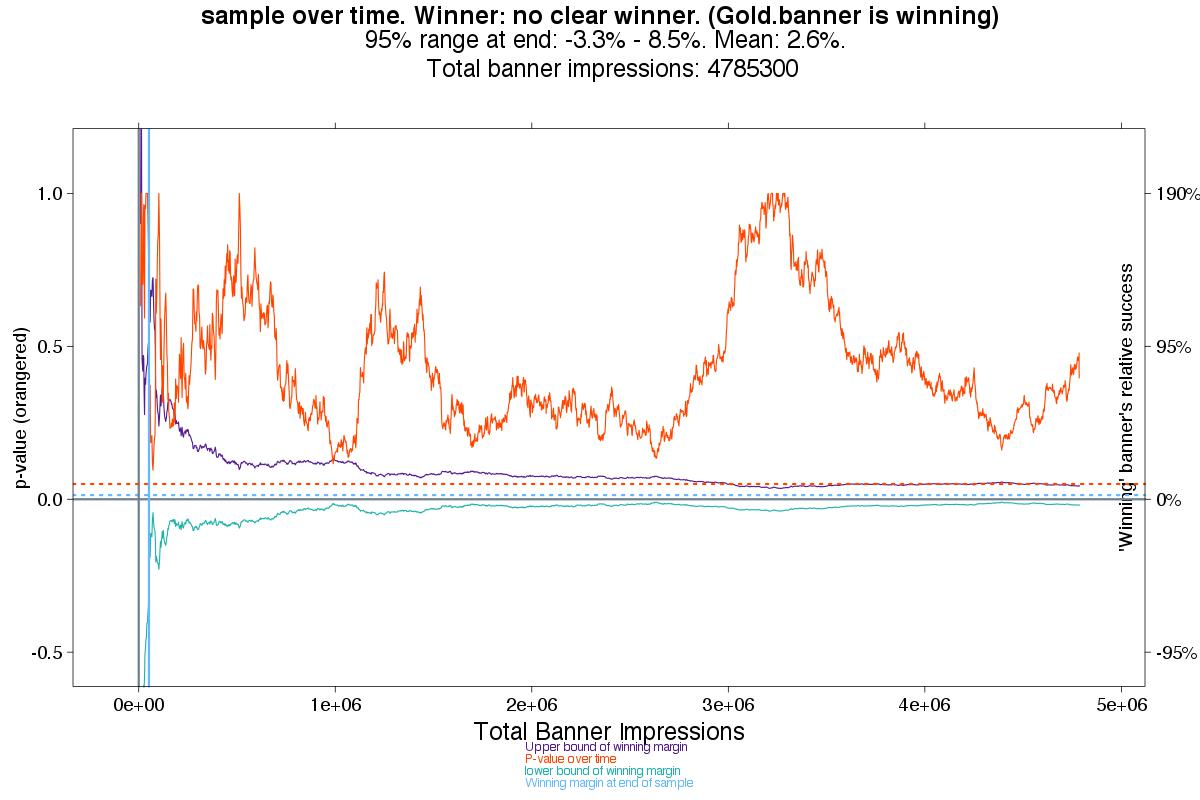
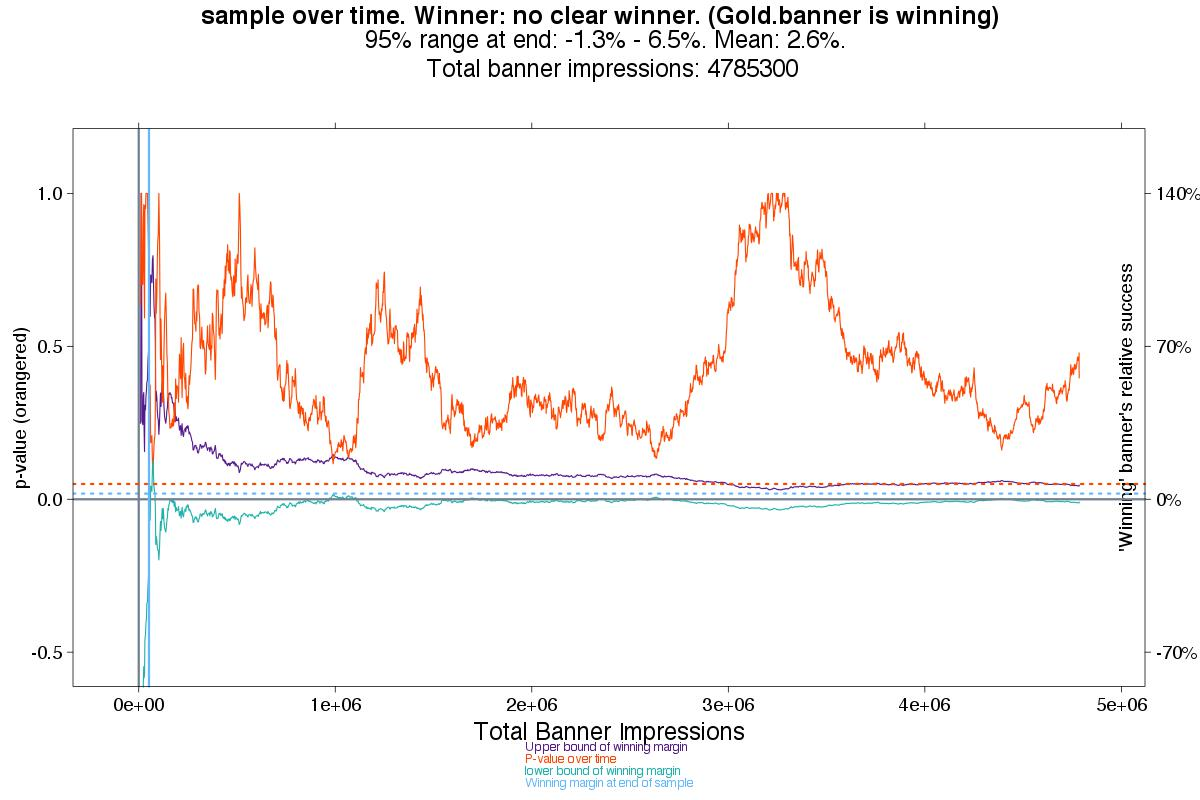
Intelligent tab buttons. Data is better

diff --git a/static/report/sample/show.html b/static/report/sample/show.html
@@ -14,7 +14,7 @@
 
 
 <div class='diagnostic-table'><!-- html table generated in R 3.0.1 by xtable 1.7-1 package -->
-<!-- Sat Jan 18 00:02:07 2014 -->
+<!-- Tue Jan 21 21:58:40 2014 -->
 <TABLE class='table table-hover table-bordered'>
 <TR> <TH> name </TH> <TH> donations </TH> <TH> clicks </TH> <TH> impressions </TH> <TH> donations/1000 impressions </TH> <TH> $/1000 impressions </TH> <TH> amount </TH> <TH> amount20/1000bi </TH> <TH> avgDonation </TH> <TH> avg20 </TH> <TH> median </TH> <TH> max </TH> <TH> conversionrate </TH> <TH> mode </TH> <TH> mode_s </TH>  </TR>
   <TR> <TD> Gold.banner </TD> <TD> 2,272 </TD> <TD> 4,133 </TD> <TD> 2,384,200 </TD> <TD> 0.952940189581411 </TD> <TD> $13.2 </TD> <TD> $31,478.58 </TD> <TD> $9.09 </TD> <TD> $13.86 </TD> <TD> $9.54 </TD> <TD> $6 </TD> <TD> $473.35 </TD> <TD> 0.55% </TD> <TD> $3 </TD> <TD> $3 </TD> </TR>
@@ -22,20 +22,20 @@
   <TR> <TD> Absolute change: </TD> <TD>    42 </TD> <TD>   116 </TD> <TD>   -16,900 </TD> <TD> 0.0241991958701953 </TD> <TD> $0.6 </TD> <TD> $ 1,230.57 </TD> <TD> $0.8 </TD> <TD> $0.29 </TD> <TD> $0.61 </TD> <TD> $1 </TD> <TD> $-526.65 </TD> <TD> -0.005% </TD> <TD> $0 </TD> <TD> $0 </TD> </TR>
    </TABLE>
 </div><br /><div class='diagnostic-table'><!-- html table generated in R 3.0.1 by xtable 1.7-1 package -->
-<!-- Sat Jan 18 00:02:07 2014 -->
+<!-- Tue Jan 21 21:58:40 2014 -->
 <TABLE class='table table-hover table-bordered'>
-<TR> <TH> winner </TH> <TH> $/impression </TH> <TH> donations/impression </TH> <TH> Dollar increase / 1000bi </TH> <TH> Donation increase / 1000bi </TH> <TH> a20diff </TH> <TH> p </TH> <TH> power </TH> <TH> lower bound of confidence (donation) </TH> <TH> upper bound of confidence (donations) </TH> <TH> wilcoxp </TH>  </TR>
-  <TR> <TD> Gold.banner </TD> <TD> 4.76% </TD> <TD> 2.61% </TD> <TD> $0.6 </TD> <TD align="right"> 0.02 </TD> <TD> $0.8 </TD> <TD> 0.4 </TD> <TD align="right"> 0.23 </TD> <TD> -3.31% </TD> <TD> 8.52% </TD> <TD align="right"> 0.00 </TD> </TR>
+<TR> <TH> winner </TH> <TH> donations/impression </TH> <TH> Donation increase / 1000bi </TH> <TH> $/impression </TH> <TH> Dollar increase / 1000bi </TH> <TH> % impressions </TH> <TH> a20diff </TH> <TH> p </TH> <TH> power </TH> <TH> lower 95% confidence (donation) </TH> <TH> upper 95% confidence (donations) </TH> <TH> lower 95% confidence ($) </TH> <TH> upper 95% confidence ($) </TH>  </TR>
+  <TR> <TD> Gold.banner </TD> <TD> 2.61% </TD> <TD align="right"> 0.02 </TD> <TD> 4.76% </TD> <TD> $0.6 </TD> <TD> -0.7% </TD> <TD> $0.8 </TD> <TD align="right"> 0.40 </TD> <TD align="right"> 0.23 </TD> <TD> -3.31% </TD> <TD> 8.52% </TD> <TD> -9.07% </TD> <TD> 18.7% </TD> </TR>
    </TABLE>
 </div><br /><div class='diagnostic-table'><!-- html table generated in R 3.0.1 by xtable 1.7-1 package -->
-<!-- Sat Jan 18 00:02:07 2014 -->
+<!-- Tue Jan 21 21:58:40 2014 -->
 <TABLE class='table table-hover table-bordered'>
 <TR> <TH> name </TH> <TH> amount3/1000bi </TH> <TH> avg3 </TH> <TH> amount5/1000bi </TH> <TH> avg5 </TH> <TH> amount10/1000bi </TH> <TH> avg10 </TH> <TH> amount50/1000bi </TH> <TH> avg50 </TH>  </TR>
   <TR> <TD> Gold.banner </TD> <TD> $2.84 </TD> <TD> $2.98 </TD> <TD> $4.28 </TD> <TD> $4.49 </TD> <TD> $6.57 </TD> <TD> $6.89 </TD> <TD> $11.71 </TD> <TD> $12.28 </TD> </TR>
   <TR> <TD> Blue.banner </TD> <TD> $2.76 </TD> <TD> $2.97 </TD> <TD> $4.08 </TD> <TD> $4.39 </TD> <TD> $6.1 </TD> <TD> $6.57 </TD> <TD> $10.56 </TD> <TD> $11.37 </TD> </TR>
    </TABLE>
 </div><br /><div class='diagnostic-table'><!-- html table generated in R 3.0.1 by xtable 1.7-1 package -->
-<!-- Sat Jan 18 00:02:07 2014 -->
+<!-- Tue Jan 21 21:58:40 2014 -->
 <TABLE class='table table-hover table-bordered'>
 <TR> <TH> name </TH> <TH> donations </TH> <TH> clicks </TH> <TH> conversion </TH> <TH> avg </TH> <TH> amount </TH>  </TR>
   <TR> <TD>   obt      </TD> <TD>          0 </TD> <TD>          1 </TD> <TD>     0%     </TD> <TD>     $NaN   </TD> <TD>  $0        </TD> </TR>
@@ -46,14 +46,7 @@
   <TR> <TD>   cc       </TD> <TD>      1,217 </TD> <TD>      2,868 </TD> <TD>     42.43% </TD> <TD>     $19.98 </TD> <TD> $24,321.21 </TD> </TR>
   <TR> <TD>   paypal   </TD> <TD>      2,644 </TD> <TD>      3,946 </TD> <TD>     67%    </TD> <TD>     $11.07 </TD> <TD> $29,273.93 </TD> </TR>
    </TABLE>
-</div><br /><!-- html table generated in R 3.0.1 by xtable 1.7-1 package -->
-<!-- Sat Jan 18 00:02:11 2014 -->
-<TABLE class='table table-hover table-bordered'>
-  <TR> <TD> Percentage difference between impressions </TD> <TD> 0.71 </TD> </TR>
-  <TR> <TD> Expected difference if they were served randomly and evenly </TD> <TD> 0.18 </TD> </TR>
-  <TR> <TD> The biggest country made up this % of total impressions </TD> <TD> 57.46348 </TD> </TR>
-   </TABLE>
-<img src='./pamplona.jpeg' style="
+</div><img src='./pamplona.jpeg' style="
     margin-right: auto;
     margin-left: auto;
     width: 90%;

diff --git a/templates/result.html b/templates/result.html
@@ -79,8 +79,9 @@
         {% endfor %}
       {% endif %}
     </div>
-    
+    <div id="diag-container">
     <div id="base" class="hidden-tab">
+    
       <img class='pamplona'  {% if force_local_graph %}
         src="{{ local_url_for('static', filename='report/{}/{}'.format(testname, graphname)) }}" 
       {% else %}
@@ -143,8 +144,10 @@
           {% endif %}
         {% endfor %}
       </div>
+    </div>
+         
 
-         {% if diagnostic_graphs|length > 1 %}
+        {% if diagnostic_graphs|length > 1 %}
           {% for tabtype in diagnostic_graphs.keys() %}
             {% if tabtype != "" %}
               <div id="{{ tabtype }}" class="hidden-tab" style="display:none">
@@ -159,14 +162,28 @@
             {% endif %}
           {% endfor %}
         {% endif %}
+
+      </div>
+
           
-        
+        <div id="bottom-tabbuttons"class="text-center">
+        {% if diagnostic_graphs|length > 1 %}
+          {% for tabtype in diagnostic_graphs.keys() %}
+            {% if tabtype != "" %}
+              <a id="{{ tabtype }}_clic2" class="btn btn-info tabclick">{{ tabtype }} Info</a>
+            {% else %}
+              <a id="base_clic2" class="btn btn-info tabclick">Base Info</a>
+            {% endif %}
+          {% endfor %}
+        {% endif %}
 <!-- diagnostic_num
         {% for d in diagnostic_plots %}
         <img src="{{ url_for('static', filename='report/{}/{}'.format(testname, d) ) }}">
         {% endfor %}
 -->
-      </div>
+      
+    </div>
+      
   </div>
   <div class="comments clearfix" class="row-fluid" style_="display:none">
     <div class="span10 offset1">
@@ -226,8 +243,27 @@ $('.screenshot').click(click_to_zoom)
 </script>
 
 <script type="text/javascript">
+  toggle_tabs = function(x){ 
+      name = x.target.getAttribute('id'); 
+      name = name.substr(0,name.length - 6); 
+      $("#"+name).slideToggle('slow', check_set_bottomtabs);    
+  }
+
+  check_set_bottomtabs = function(){
+    allhidden = true
+    children = $('#diag-container').children()
+    for(i=0; i<children.length; i++){
+      c = $(children[i])
+      if(c.is(":visible")){
+        allhidden = false
+        break;
+      } 
+    } 
+    allhidden ? $('#bottom-tabbuttons').hide() : $('#bottom-tabbuttons').show()
+  }
+
   //When you click a tab, show that info in the diagnostics
-  $('.tabclick').click(function(x){  name = this.getAttribute('id'); name = name.substr(0,name.length - 6); $("#"+name).slideToggle('slow')  })
+  $('.tabclick').click(toggle_tabs)
 </script>
 
 {% endblock %}

diff --git a/static/report/sample/reportB.html b/static/report/sample/reportB.html
@@ -1,6 +1,6 @@
 <!-- html table generated in R 3.0.1 by xtable 1.7-1 package -->
-<!-- Sat Jan 18 00:02:07 2014 -->
+<!-- Tue Jan 21 21:58:40 2014 -->
 <TABLE class='table table-hover table-bordered'>
-<TR> <TH> winner </TH> <TH> $/impression </TH> <TH> donations/impression </TH> <TH> Dollar increase / 1000bi </TH> <TH> Donation increase / 1000bi </TH> <TH> a20diff </TH> <TH> p </TH> <TH> power </TH> <TH> lower bound of confidence (donation) </TH> <TH> upper bound of confidence (donations) </TH> <TH> wilcoxp </TH>  </TR>
-  <TR> <TD> Gold.banner </TD> <TD> 4.76% </TD> <TD> 2.61% </TD> <TD> $0.6 </TD> <TD align="right"> 0.02 </TD> <TD> $0.8 </TD> <TD> 0.4 </TD> <TD align="right"> 0.23 </TD> <TD> -3.31% </TD> <TD> 8.52% </TD> <TD align="right"> 0.00 </TD> </TR>
+<TR> <TH> winner </TH> <TH> donations/impression </TH> <TH> Donation increase / 1000bi </TH> <TH> $/impression </TH> <TH> Dollar increase / 1000bi </TH> <TH> % impressions </TH> <TH> a20diff </TH> <TH> p </TH> <TH> power </TH> <TH> lower 95% confidence (donation) </TH> <TH> upper 95% confidence (donations) </TH> <TH> lower 95% confidence ($) </TH> <TH> upper 95% confidence ($) </TH>  </TR>
+  <TR> <TD> Gold.banner </TD> <TD> 2.61% </TD> <TD align="right"> 0.02 </TD> <TD> 4.76% </TD> <TD> $0.6 </TD> <TD> -0.7% </TD> <TD> $0.8 </TD> <TD align="right"> 0.40 </TD> <TD align="right"> 0.23 </TD> <TD> -3.31% </TD> <TD> 8.52% </TD> <TD> -9.07% </TD> <TD> 18.7% </TD> </TR>
    </TABLE>

diff --git a/static/report/sample/reportA.html b/static/report/sample/reportA.html
@@ -1,5 +1,5 @@
 <!-- html table generated in R 3.0.1 by xtable 1.7-1 package -->
-<!-- Sat Jan 18 00:02:07 2014 -->
+<!-- Tue Jan 21 21:58:40 2014 -->
 <TABLE class='table table-hover table-bordered'>
 <TR> <TH> name </TH> <TH> donations </TH> <TH> clicks </TH> <TH> impressions </TH> <TH> donations/1000 impressions </TH> <TH> $/1000 impressions </TH> <TH> amount </TH> <TH> amount20/1000bi </TH> <TH> avgDonation </TH> <TH> avg20 </TH> <TH> median </TH> <TH> max </TH> <TH> conversionrate </TH> <TH> mode </TH> <TH> mode_s </TH>  </TR>
   <TR> <TD> Gold.banner </TD> <TD> 2,272 </TD> <TD> 4,133 </TD> <TD> 2,384,200 </TD> <TD> 0.952940189581411 </TD> <TD> $13.2 </TD> <TD> $31,478.58 </TD> <TD> $9.09 </TD> <TD> $13.86 </TD> <TD> $9.54 </TD> <TD> $6 </TD> <TD> $473.35 </TD> <TD> 0.55% </TD> <TD> $3 </TD> <TD> $3 </TD> </TR>

diff --git a/static/report/sample/reportD.html b/static/report/sample/reportD.html
@@ -1,5 +1,5 @@
 <!-- html table generated in R 3.0.1 by xtable 1.7-1 package -->
-<!-- Sat Jan 18 00:02:07 2014 -->
+<!-- Tue Jan 21 21:58:40 2014 -->
 <TABLE class='table table-hover table-bordered'>
 <TR> <TH> name </TH> <TH> amount3/1000bi </TH> <TH> avg3 </TH> <TH> amount5/1000bi </TH> <TH> avg5 </TH> <TH> amount10/1000bi </TH> <TH> avg10 </TH> <TH> amount50/1000bi </TH> <TH> avg50 </TH>  </TR>
   <TR> <TD> Gold.banner </TD> <TD> $2.84 </TD> <TD> $2.98 </TD> <TD> $4.28 </TD> <TD> $4.49 </TD> <TD> $6.57 </TD> <TD> $6.89 </TD> <TD> $11.71 </TD> <TD> $12.28 </TD> </TR>

diff --git a/static/report/sample/reportE.html b/static/report/sample/reportE.html
@@ -1,5 +1,5 @@
 <!-- html table generated in R 3.0.1 by xtable 1.7-1 package -->
-<!-- Sat Jan 18 00:02:07 2014 -->
+<!-- Tue Jan 21 21:58:40 2014 -->
 <TABLE class='table table-hover table-bordered'>
 <TR> <TH> name </TH> <TH> donations </TH> <TH> clicks </TH> <TH> conversion </TH> <TH> avg </TH> <TH> amount </TH>  </TR>
   <TR> <TD>   obt      </TD> <TD>          0 </TD> <TD>          1 </TD> <TD>     0%     </TD> <TD>     $NaN   </TD> <TD>  $0        </TD> </TR>
